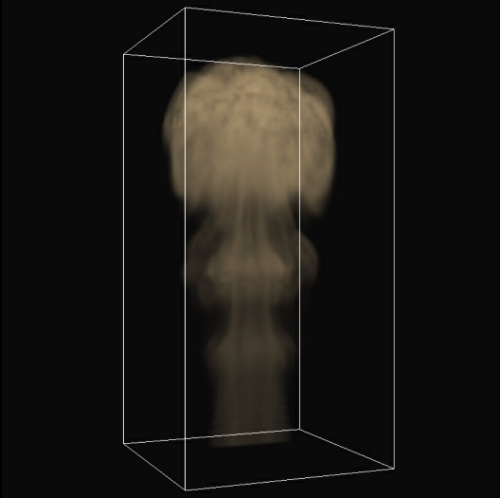
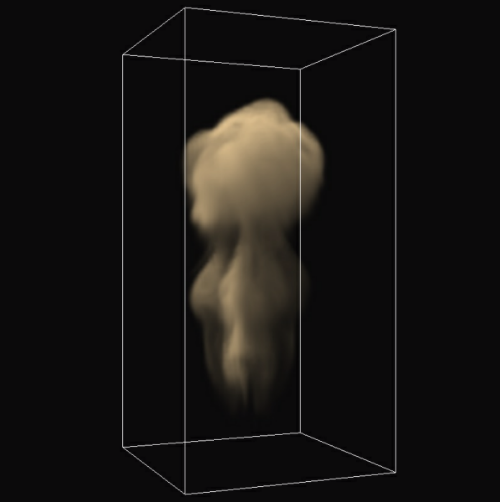
fix shader and clean code

diff --git a/src/Volume.cpp b/src/Volume.cpp
@@ -64,8 +64,8 @@ void Volume::update()
 
 void Volume::draw() const
 {
-    glUniform1f(scaleID, VOXEL_SIZE);
     glUniform1f(absorptionID, ABSORPTION);
+    glUniform1f(numID, 2 * N);
     glUniform3f(ratioID, (float)ratio[0], (float)ratio[1], (float)ratio[2]);
 
     // Bind volume texture in Texture Unit 0
@@ -131,6 +131,16 @@ void Volume::initVAO()
         {1.0f, 0.0f, 1.0f},
         {1.0f, 1.0f, 1.0f}};
 
+    const float texcoord[8][3] = {
+        {0.0f, 0.0f, 0.0f},
+        {1.0f, 0.0f, 0.0f},
+        {0.0f, 1.0f, 0.0f},
+        {0.0f, 0.0f, 1.0f},
+        {1.0f, 1.0f, 0.0f},
+        {0.0f, 1.0f, 1.0f},
+        {1.0f, 0.0f, 1.0f},
+        {1.0f, 1.0f, 1.0f}};
+
     const unsigned int indices[12][3] = {
         {3, 5, 7}, {3, 7, 6}, {1, 6, 7}, {1, 7, 4}, {0, 1, 4}, {0, 4, 2}, {0, 2, 5}, {0, 5, 3}, {2, 5, 7}, {2, 7, 4}, {0, 1, 6}, {0, 6, 3}};
 
@@ -166,6 +176,8 @@ void Volume::initShaders()
     std::string vertex_shader_file = std::string("./src/shader/volume.vert");
     std::string fragment_shader_file = std::string("./src/shader/volume.frag");
 
+    GLuint vertexShaderID;
+    GLuint fragmentShaderID;
     // create shaders
     vertexShaderID = glCreateShader(GL_VERTEX_SHADER);
     fragmentShaderID = glCreateShader(GL_FRAGMENT_SHADER);
@@ -267,8 +279,8 @@ void Volume::initShaders()
     LightPosID = glGetUniformLocation(programID, "lightPos");
     LightIntensityID = glGetUniformLocation(programID, "lightIntensity");
     MatrixID = glGetUniformLocation(programID, "MVP");
-    scaleID = glGetUniformLocation(programID, "scale");
     absorptionID = glGetUniformLocation(programID, "absorption");
+    numID = glGetUniformLocation(programID, "num");
     ratioID = glGetUniformLocation(programID, "ratio");
 }
 

diff --git a/include/constants.hpp b/include/constants.hpp
@@ -19,23 +19,23 @@ enum E_EMITTER_POS
     E_BOTTOM = 1
 };
 
-constexpr int N = 25;
+constexpr int N = 64;
 constexpr int ratio[3] = {1, 2, 1}; // X, Y, Z
 constexpr E_METHOD INTERPOLATION_METHOD = E_MONOTONIC_CUBIC;
 constexpr E_ADVECTION ADVECTION_METHOD = E_MAC_CORMACK;
 constexpr E_EMITTER_POS EMITTER_POS = E_BOTTOM;
 
 constexpr int Nx = ratio[0] * N, Ny = ratio[1] * N, Nz = ratio[2] * N;
-constexpr int SOURCE_SIZE_X = (int)(Nx / 3);
-constexpr int SOURCE_SIZE_Y = (int)(Ny / 10);
-constexpr int SOURCE_SIZE_Z = (int)(Nz / 3);
-constexpr int SOURCE_Y_MERGIN = (int)(Ny / 10);
+constexpr int SOURCE_SIZE_X = (int)(Nx / 4);
+constexpr int SOURCE_SIZE_Y = (int)(Ny / 20);
+constexpr int SOURCE_SIZE_Z = (int)(Nz / 4);
+constexpr int SOURCE_Y_MERGIN = (int)(Ny / 20);
 constexpr int SIZE = Nx * Ny * Nz;
 
 constexpr double DT = 0.02;
-constexpr double VOXEL_SIZE = 1.0 / N;
+constexpr double VOXEL_SIZE = 1.0;
 constexpr double INIT_DENSITY = 1.0;
-constexpr double INIT_VELOCITY = 20.0;
+constexpr double INIT_VELOCITY = 80.0;
 constexpr double VORT_EPS = 0.25;
 constexpr double ALPHA = 9.8;
 constexpr double BETA = 15.0;
@@ -48,7 +48,7 @@ constexpr double FINISH_TIME = 6.0;
 constexpr int WIN_WIDTH = 800;
 constexpr int WIN_HEIGHT = 800;
 static const char *WIN_TITLE = "Visual Simulation of Smoke";
-constexpr float ABSORPTION = 2.0f;
+constexpr float ABSORPTION = 5.0f;
 constexpr bool SAVE_MOVIE = true;
 
 /* other definitions */

diff --git a/include/Volume.hpp b/include/Volume.hpp
@@ -39,12 +39,10 @@ private:
   std::shared_ptr<MACGrid> m_grids;
 
   // ID
+  GLuint programID;
   GLuint vaoID;
   GLuint vboID;
   GLuint indexID;
-  GLuint programID;
-  GLuint vertexShaderID;
-  GLuint fragmentShaderID;
 
   GLuint volumeTexID;
 
@@ -52,7 +50,7 @@ private:
   GLuint LightPosID;
   GLuint LightIntensityID;
   GLuint MatrixID;
-  GLuint scaleID;
   GLuint absorptionID;
+  GLuint numID;
   GLuint ratioID;
 };

diff --git a/src/Wireframe.cpp b/src/Wireframe.cpp
@@ -109,6 +109,9 @@ void Wireframe::initShaders()
     std::string vertex_shader_file = std::string("./src/shader/wireframe.vert");
     std::string fragment_shader_file = std::string("./src/shader/wireframe.frag");
 
+    GLuint vertexShaderID;
+    GLuint fragmentShaderID;
+
     // create shaders
     vertexShaderID = glCreateShader(GL_VERTEX_SHADER);
     fragmentShaderID = glCreateShader(GL_FRAGMENT_SHADER);

diff --git a/src/Scene.cpp b/src/Scene.cpp
@@ -56,8 +56,8 @@ void Scene::update()
 {
     float r = 7.0f;
 
-    lightPos = glm::vec3(0.0f, -r, 0.0f);
-    lightIntensity = 1.0f * glm::vec3(1.74f, 1.46f, 1.00f);
+    lightPos = glm::vec3(r, -1.5f * r, -r);
+    lightIntensity = 3.0f * glm::vec3(1.74f, 1.46f, 1.00f);
     // lightIntensity = glm::vec3(1.0f);
 
     m_camera->update();

diff --git a/src/Camera.cpp b/src/Camera.cpp
@@ -8,7 +8,7 @@ Camera::Camera() : m_r(9.0f),
                    m_horizontalAngle(1.0f * M_PI / 8.0f),
                    m_verticalAngle(M_PI / 2.0f),
                    m_FoV(30.0f),
-                   m_speed(10.0f),
+                   m_speed(1.0f),
                    m_mouseSpeed(0.0003f)
 {
     // update();

diff --git a/include/Wireframe.hpp b/include/Wireframe.hpp
@@ -32,12 +32,10 @@ private:
   std::string ReadFile(const std::string &filename);
 
   // ID
+  GLuint programID;
   GLuint vaoID;
   GLuint vboID;
   GLuint indexID;
-  GLuint programID;
-  GLuint vertexShaderID;
-  GLuint fragmentShaderID;
 
   GLuint MatrixID;
 };
